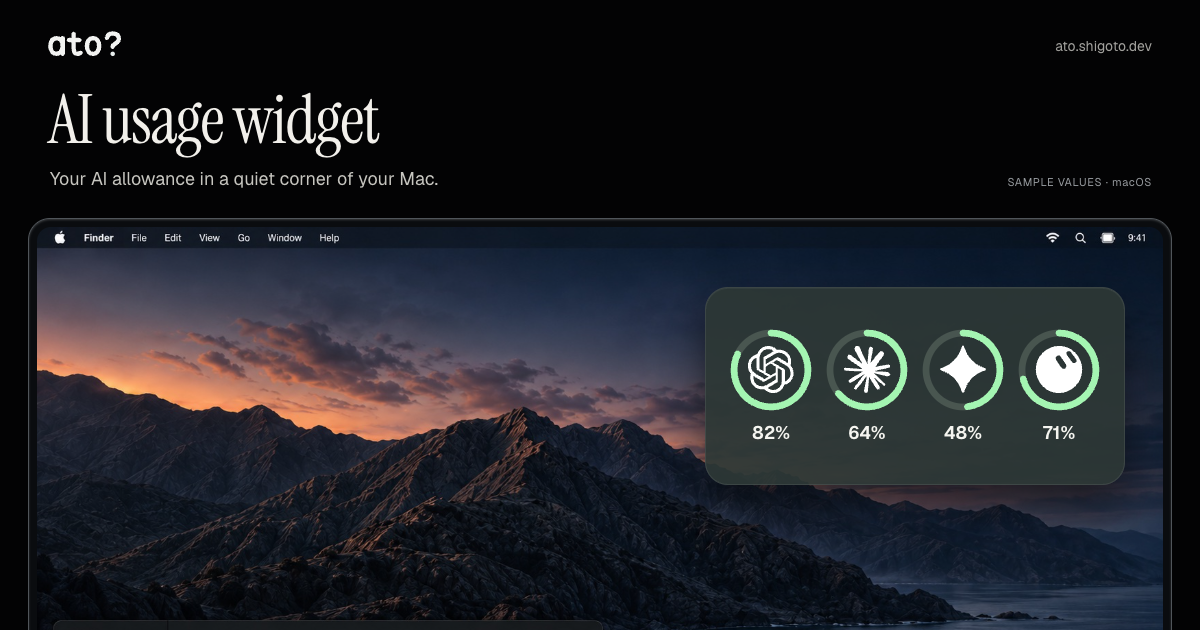
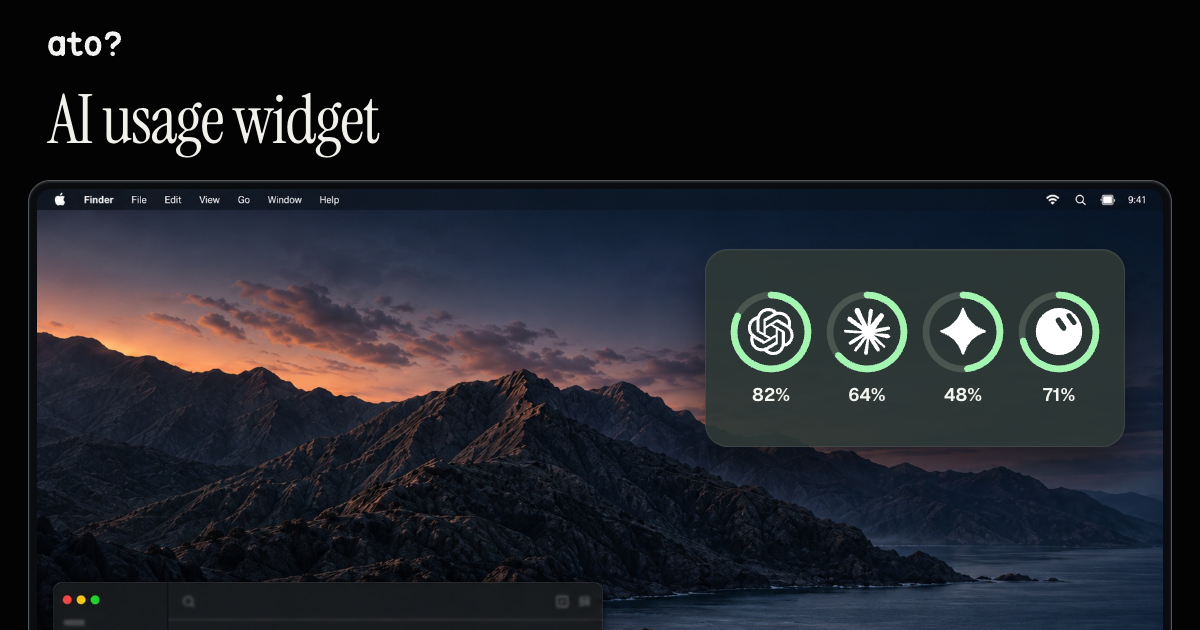
Remove extra text from the ato? social image (#24)

diff --git a/site/media/ato-og.html b/site/media/ato-og.html
@@ -14,11 +14,8 @@
   .og-artwork { position: relative; width: 1200px; height: 630px; overflow: hidden; }
   .og-brand { position: absolute; top: 24px; left: 46px; height: 44px; }
   .og-brand img { display: block; width: auto; height: 44px; }
-  .og-domain { position: absolute; top: 37px; right: 48px; margin: 0; color: #a3a29e; font-size: 14px; }
   .og-artwork h1 { position: absolute; top: 84px; left: 48px; margin: 0; font: 400 68px/1.08 OGSerif, serif; letter-spacing: -.025em; }
-  .og-description { position: absolute; top: 165px; left: 50px; margin: 0; font: 400 18px/1.6 OGSans, sans-serif; color: #c7c6c0; }
-  .og-sample { position: absolute; top: 174px; right: 48px; margin: 0; color: #969a9e; font: 400 11px/1.5 OGSans, sans-serif; letter-spacing: .06em; }
-  .og-product { position: absolute; top: 218px; left: 28px; right: 28px; margin: 0; }
+  .og-product { position: absolute; top: 180px; left: 28px; right: 28px; margin: 0; }
 
   .og-desktop { padding: 8px; border: 1px solid #50555a; border-radius: 22px; background: #0a0c0f; box-shadow: inset 0 1px 2px #a2a5a651; }
   .og-screen { position: relative; width: 100%; aspect-ratio: 1643 / 957; overflow: hidden; border-radius: 14px; }
@@ -30,10 +27,7 @@
 </head>
 <body><main class="og-artwork">
   <div class="og-brand"><img src="../public/assets/ato-mark.svg" width="79" height="44" alt="ato?"></div>
-  <p class="og-domain">ato.shigoto.dev</p>
   <h1>AI usage widget</h1>
-  <p class="og-description">Your AI allowance in a quiet corner of your Mac.</p>
-  <p class="og-sample">SAMPLE VALUES · macOS</p>
   <figure class="og-product og-desktop"><div class="og-screen">
     <img class="og-backdrop" src="../public/assets/mac-desktop-scene.jpg" width="1643" height="957" alt="">
     <div class="og-widget"><div class="widget medium-widget" data-widget="medium"><div class="ring-unit" role="img" aria-label="Codex: 82% remaining"><div class="ring-wrap"><svg viewBox="0 0 100 100" aria-hidden="true"><circle class="ring-track" cx="50" cy="50" r="44"></circle><circle class="ring-value" cx="50" cy="50" r="44" style="stroke-dashoffset:49.76282763286233"></circle></svg><img src="../public/assets/codex.svg" alt="" width="60" height="60"></div><div class="ring-number" aria-hidden="true">82%</div></div><div class="ring-unit" role="img" aria-label="Claude: 64% remaining"><div class="ring-wrap"><svg viewBox="0 0 100 100" aria-hidden="true"><circle class="ring-track" cx="50" cy="50" r="44"></circle><circle class="ring-value" cx="50" cy="50" r="44" style="stroke-dashoffset:99.52565526572464"></circle></svg><img src="../public/assets/claude.svg" alt="" width="60" height="60"></div><div class="ring-number" aria-hidden="true">64%</div></div><div class="ring-unit" role="img" aria-label="Gemini: 48% remaining"><div class="ring-wrap"><svg viewBox="0 0 100 100" aria-hidden="true"><circle class="ring-track" cx="50" cy="50" r="44"></circle><circle class="ring-value" cx="50" cy="50" r="44" style="stroke-dashoffset:143.75927982826892"></circle></svg><img src="../public/assets/gemini.svg" alt="" width="60" height="60"></div><div class="ring-number" aria-hidden="true">48%</div></div><div class="ring-unit" role="img" aria-label="Grok: 71% remaining"><div class="ring-wrap"><svg viewBox="0 0 100 100" aria-hidden="true"><circle class="ring-track" cx="50" cy="50" r="44"></circle><circle class="ring-value" cx="50" cy="50" r="44" style="stroke-dashoffset:80.17344451961152"></circle></svg><img src="../public/assets/grokBot.svg" alt="" width="60" height="60"></div><div class="ring-number" aria-hidden="true">71%</div></div></div></div>

diff --git a/site/src/index.html b/site/src/index.html
@@ -11,7 +11,7 @@
   <meta property="og:description" content="5つのサービスから4つのリングを、Macの片隅に。利用枠の残量を、ひと目で確認。">
   <meta property="og:type" content="website">
   <meta property="og:url" content="https://ato.shigoto.dev">
-  <meta property="og:image" content="https://ato.shigoto.dev/assets/ato-og.png?v=625d2584">
+  <meta property="og:image" content="https://ato.shigoto.dev/assets/ato-og.png?v=01df8258">
   <meta property="og:image:width" content="1200">
   <meta property="og:image:height" content="630">
   <meta property="og:image:type" content="image/png">
@@ -19,7 +19,7 @@
   <meta name="twitter:card" content="summary_large_image">
   <meta name="twitter:title" content="ato?">
   <meta name="twitter:description" content="5つのサービスから4つのリングを、Macの片隅に。利用枠の残量を、ひと目で確認。">
-  <meta name="twitter:image" content="https://ato.shigoto.dev/assets/ato-og.png?v=625d2584">
+  <meta name="twitter:image" content="https://ato.shigoto.dev/assets/ato-og.png?v=01df8258">
   <meta name="twitter:image:alt" content="ato?。Mac用のAI利用残量ウィジェット。リング表示はサンプルです。">
   <link rel="icon" type="image/png" href="../public/assets/favicon-32.png" sizes="32x32">
   <link rel="apple-touch-icon" href="../public/assets/apple-touch-icon.png" sizes="180x180">
